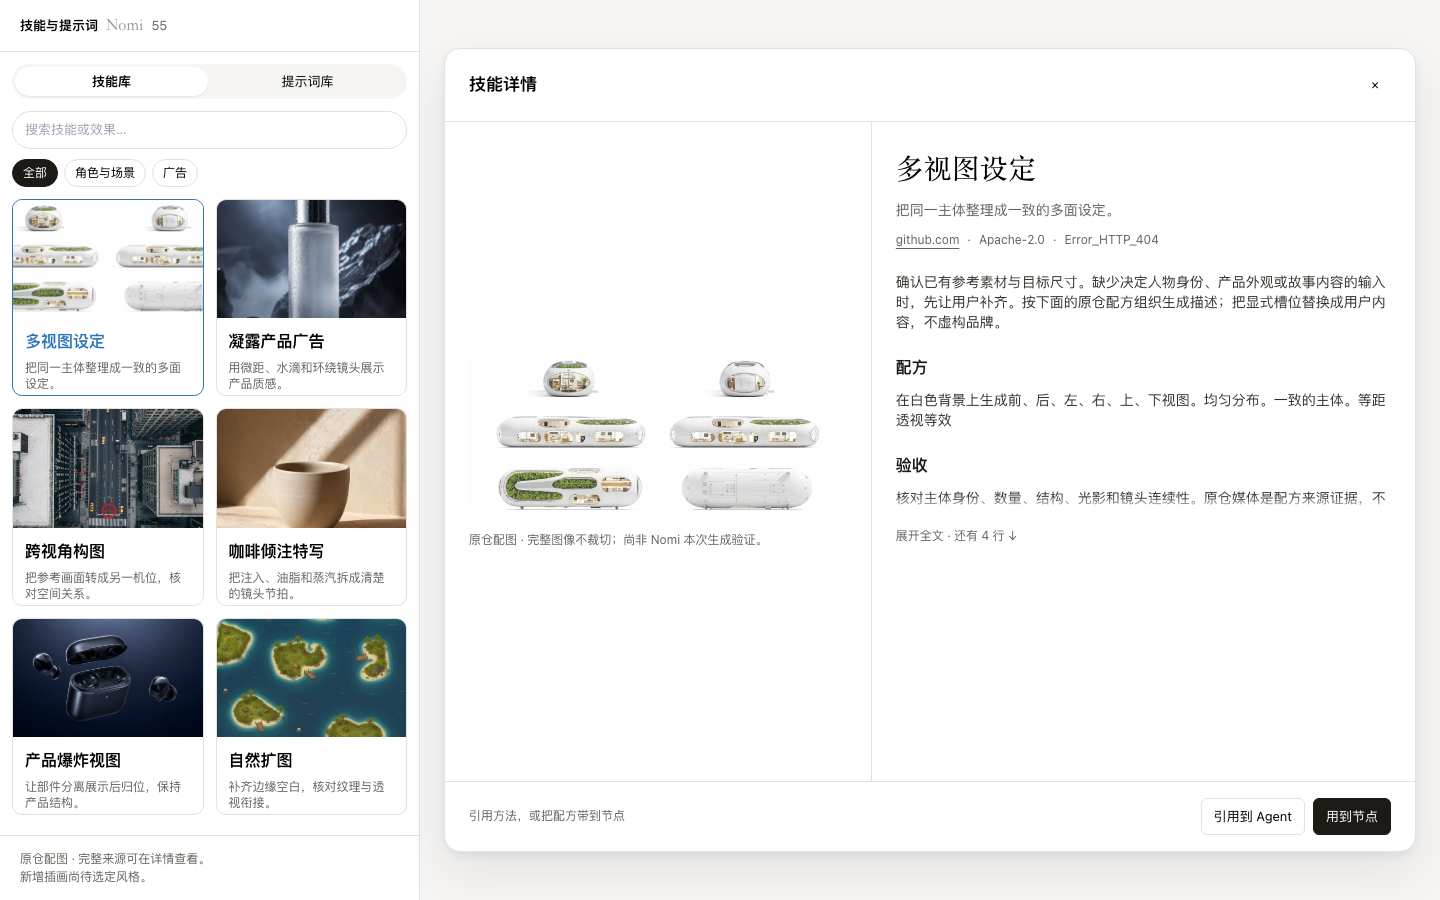
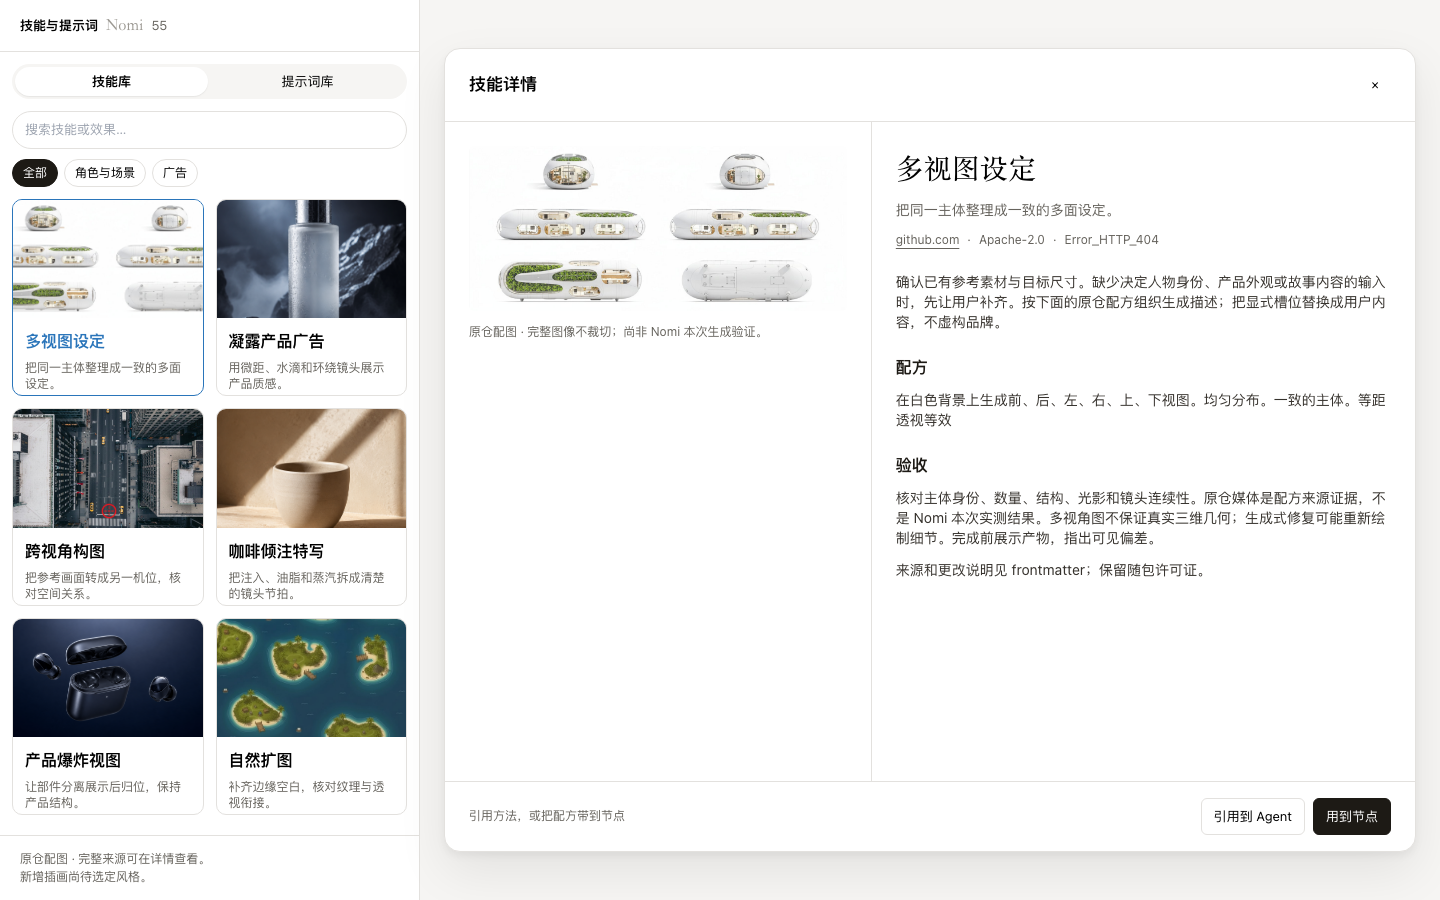
docs: show full skill detail body in v3 mockup

Changed region(s): [[0.3438, 0.1556, 0.5625, 0.3733], [0.3125, 0.4044, 0.5625, 0.6222], [0.625, 0.56, 0.9688, 0.6533]]

diff --git a/docs/design/mockups/2026-09-08-skill-library-cards/style.css b/docs/design/mockups/2026-09-08-skill-library-cards/style.css
@@ -1,3 +1,3 @@
 
-*{box-sizing:border-box}body{margin:0;font:13px/1.5 var(--nomi-font-sans);color:var(--nomi-ink);background:var(--nomi-ink-05)}button,input{font:inherit}button{cursor:pointer;color:inherit;background:var(--nomi-paper);border:1px solid var(--nomi-line);border-radius:var(--nomi-radius-sm);padding:8px 12px}button:hover{border-color:var(--nomi-accent);color:var(--nomi-accent)}button:focus-visible,input:focus-visible,[contenteditable]:focus-visible{outline:2px solid var(--nomi-accent);outline-offset:3px}button.active,.primary{background:var(--nomi-ink);color:var(--nomi-paper);border-color:var(--nomi-ink)}.quiet{border:0;background:none}.muted{color:var(--nomi-ink-60)}.workspace{display:flex;width:1440px;height:900px;max-width:100vw;overflow:hidden}.sidebar{width:420px;flex-shrink:0;background:var(--nomi-paper);border-right:1px solid var(--nomi-line);display:flex;flex-direction:column}.header{height:54px;display:flex;align-items:center;gap:8px;padding:0 20px;border-bottom:1px solid var(--nomi-line)}.wordmark{font:16px var(--nomi-font-display);color:var(--nomi-ink-40)}.tabs{display:flex;padding:3px;border-radius:999px;background:var(--nomi-ink-05);margin:12px;gap:3px}.tabs button{border:0;border-radius:999px;flex:1;background:transparent;padding:5px}.tabs button.selected{background:var(--nomi-paper);box-shadow:var(--nomi-shadow-sm);font-weight:600}.search{margin:0 12px 10px;padding:8px 12px;border:1px solid var(--nomi-line);border-radius:999px;background:var(--nomi-paper);width:calc(100% - 24px)}.groups{display:flex;gap:6px;padding:0 12px 12px;flex-wrap:wrap}.groups button{font-size:12px;padding:4px 10px;border-radius:999px}.grid{padding:0 12px 20px;display:grid;grid-template-columns:repeat(2,minmax(0,1fr));gap:12px;overflow:auto;align-content:start}.card{padding:0;text-align:left;overflow:hidden;border:1px solid var(--nomi-line);border-radius:var(--nomi-radius);background:var(--nomi-paper)}.card img{width:100%;aspect-ratio:16/10;object-fit:cover;display:block;background:var(--nomi-ink-05)}.card .copy{padding:12px}.card strong{font-size:16px;line-height:22px;display:block;overflow:hidden;white-space:nowrap;text-overflow:ellipsis}.card p{font-size:12px;line-height:16px;color:var(--nomi-ink-60);margin:8px 0 0;min-height:32px;overflow:hidden;display:-webkit-box;-webkit-line-clamp:2;-webkit-box-orient:vertical;letter-spacing:normal;hanging-punctuation:first last}.stage{flex:1;position:relative;background:var(--nomi-ink-05)}.node{position:absolute;left:180px;top:120px;width:400px;height:240px;background:var(--nomi-paper);border:1px solid var(--nomi-line);border-radius:var(--nomi-radius);overflow:hidden}.node img{width:100%;height:100%;object-fit:contain}.node-label{position:absolute;top:10px;left:12px;background:var(--nomi-paper);padding:2px 6px;border-radius:var(--nomi-radius-sm)}.caption{position:absolute;left:32px;bottom:24px;color:var(--nomi-ink-60);font-size:12px;max-width:800px}.detail{position:absolute;left:444px;top:48px;width:972px;height:804px;background:var(--nomi-paper);border:1px solid var(--nomi-line);border-radius:var(--nomi-radius-lg);box-shadow:var(--nomi-shadow-lg);z-index:10;display:flex;flex-direction:column}.detail[hidden]{display:none}.detail-head{padding:18px 24px;display:flex;align-items:center;border-bottom:1px solid var(--nomi-line)}.detail-head strong{font-size:17px}.detail-head button{margin-left:auto}.detail-body{display:grid;grid-template-columns:44% 56%;min-height:0;flex:1}.hero{margin:0;padding:24px;border-right:1px solid var(--nomi-line);display:flex;flex-direction:column;justify-content:center}.hero img{width:100%;max-height:440px;object-fit:contain;border-radius:var(--nomi-radius-sm)}figcaption{font-size:12px;color:var(--nomi-ink-60);margin-top:12px}.prompt-pane{padding:24px;overflow:auto}.eyebrow{font-size:11px;color:var(--nomi-ink-40);letter-spacing:.08em}a{color:var(--nomi-accent)}.detail-footer{padding:16px 24px;border-top:1px solid var(--nomi-line);display:flex;justify-content:flex-end;align-items:center;gap:8px}.detail-footer span{margin-right:auto;color:var(--nomi-ink-60);font-size:12px}.toast{position:fixed;right:32px;bottom:28px;padding:12px 18px;border-radius:var(--nomi-radius);background:var(--nomi-ink);color:var(--nomi-paper);box-shadow:var(--nomi-shadow-md);z-index:40}.toast[hidden]{display:none}.toast button{margin-left:12px}.composer{position:absolute;left:32px;top:374px;width:696px;padding:12px;background:var(--nomi-paper);border:1px solid var(--nomi-line);border-radius:var(--nomi-radius);box-shadow:var(--nomi-shadow-md)}.composer-top{display:flex;align-items:center;justify-content:space-between;padding:0 0 9px;border-bottom:1px solid var(--nomi-line-soft);font-size:12px;color:var(--nomi-ink-60)}.reference{display:flex;align-items:center;gap:6px}.reference img{width:24px;height:24px;object-fit:cover;border-radius:var(--nomi-radius-sm)}.editor{min-height:64px;max-height:110px;overflow:auto;padding:10px 0;outline:none;white-space:pre-wrap}.editor:empty:before{content:'描述这一帧的画面…';color:var(--nomi-ink-40)}mark{background:var(--nomi-ink-05);color:var(--nomi-ink-80);border-radius:999px;padding:4px 8px;font-size:12px;line-height:16px}.effects{display:flex;gap:8px;margin:0 0 10px;position:relative;align-items:center}.effects > button,.effects #favorites button{padding:4px 8px;font-size:12px;line-height:16px;border-radius:999px;background:var(--nomi-ink-05);border-color:transparent}.effects #favorites:not([hidden]){display:flex;gap:4px}.more{margin-left:auto}.menu{position:absolute;z-index:30;left:calc(100% + 12px);top:-120px;width:232px;background:var(--nomi-paper);border:1px solid var(--nomi-line);border-radius:var(--nomi-radius);box-shadow:var(--nomi-shadow-lg);max-height:470px;overflow:auto;padding:12px}.menu[hidden]{display:none}.menu section+section{border-top:1px solid var(--nomi-line-soft);padding-top:8px;margin-top:8px}.menu strong{font-size:11px;line-height:14px;font-weight:500;color:var(--nomi-ink-40);display:block;margin:0 8px 4px}.menu button{font-size:12px;line-height:16px;display:block;border:0;text-align:left;width:100%;border-radius:var(--nomi-radius-sm);padding:8px}.footer{display:flex;gap:8px;align-items:center;padding-top:4px}.footer button{border-radius:999px;font-size:12px;line-height:16px;padding:4px 8px}.footer .generate{margin-left:auto;background:var(--nomi-ink);color:var(--nomi-paper);width:32px;height:32px;padding:0;border-radius:50%}.state-label{position:absolute;left:32px;font-size:11px;letter-spacing:normal;color:var(--nomi-ink-60)}.filled{top:642px}.filled .editor{min-height:40px;padding-bottom:6px;font-size:12px}.filled .effects{margin-bottom:5px}.agent-chip{display:inline-flex;align-items:center;gap:6px;border:1px solid var(--nomi-line);padding:4px 8px;border-radius:var(--nomi-radius-sm)}.agent-chip img{width:24px;height:24px;object-fit:cover}.mode-note{padding:14px 20px;margin-top:auto;font-size:12px;border-top:1px solid var(--nomi-line);color:var(--nomi-ink-60)}
-.detail-intro{margin-bottom:24px}.detail-intro h1{margin:0 0 12px;font-weight:500}.detail-intro p{font-size:14px;line-height:20px;color:var(--nomi-ink-60);margin:0 0 12px}.detail-meta{display:flex;align-items:center;gap:8px;font-size:12px;line-height:16px;white-space:nowrap;color:var(--nomi-ink-60)}.detail-meta span:last-child{overflow:hidden;text-overflow:ellipsis}.detail-meta a{color:inherit;text-decoration:underline;text-underline-offset:4px}.skill-prose{letter-spacing:normal;hanging-punctuation:first last}.skill-prose p,.skill-prose ul,.skill-prose ol{line-height:var(--body-leading)}.skill-prose h2{line-height:var(--section-leading);margin-top:24px;margin-bottom:12px}.skill-prose p{margin-top:0;margin-bottom:12px}.skill-prose li{padding-left:4px}.expand-body{margin-top:12px;padding:4px 0;border:0;background:none;font-size:12px;line-height:16px;color:var(--nomi-ink-60)}.slot-chip{display:inline-block;font-family:var(--nomi-font-sans)}
+*{box-sizing:border-box}body{margin:0;font:13px/1.5 var(--nomi-font-sans);color:var(--nomi-ink);background:var(--nomi-ink-05)}button,input{font:inherit}button{cursor:pointer;color:inherit;background:var(--nomi-paper);border:1px solid var(--nomi-line);border-radius:var(--nomi-radius-sm);padding:8px 12px}button:hover{border-color:var(--nomi-accent);color:var(--nomi-accent)}button:focus-visible,input:focus-visible,[contenteditable]:focus-visible{outline:2px solid var(--nomi-accent);outline-offset:3px}button.active,.primary{background:var(--nomi-ink);color:var(--nomi-paper);border-color:var(--nomi-ink)}.quiet{border:0;background:none}.muted{color:var(--nomi-ink-60)}.workspace{display:flex;width:1440px;height:900px;max-width:100vw;overflow:hidden}.sidebar{width:420px;flex-shrink:0;background:var(--nomi-paper);border-right:1px solid var(--nomi-line);display:flex;flex-direction:column}.header{height:54px;display:flex;align-items:center;gap:8px;padding:0 20px;border-bottom:1px solid var(--nomi-line)}.wordmark{font:16px var(--nomi-font-display);color:var(--nomi-ink-40)}.tabs{display:flex;padding:3px;border-radius:999px;background:var(--nomi-ink-05);margin:12px;gap:3px}.tabs button{border:0;border-radius:999px;flex:1;background:transparent;padding:5px}.tabs button.selected{background:var(--nomi-paper);box-shadow:var(--nomi-shadow-sm);font-weight:600}.search{margin:0 12px 10px;padding:8px 12px;border:1px solid var(--nomi-line);border-radius:999px;background:var(--nomi-paper);width:calc(100% - 24px)}.groups{display:flex;gap:6px;padding:0 12px 12px;flex-wrap:wrap}.groups button{font-size:12px;padding:4px 10px;border-radius:999px}.grid{padding:0 12px 20px;display:grid;grid-template-columns:repeat(2,minmax(0,1fr));gap:12px;overflow:auto;align-content:start}.card{padding:0;text-align:left;overflow:hidden;border:1px solid var(--nomi-line);border-radius:var(--nomi-radius);background:var(--nomi-paper)}.card img{width:100%;aspect-ratio:16/10;object-fit:cover;display:block;background:var(--nomi-ink-05)}.card .copy{padding:12px}.card strong{font-size:16px;line-height:22px;display:block;overflow:hidden;white-space:nowrap;text-overflow:ellipsis}.card p{font-size:12px;line-height:16px;color:var(--nomi-ink-60);margin:8px 0 0;min-height:32px;overflow:hidden;display:-webkit-box;-webkit-line-clamp:2;-webkit-box-orient:vertical;letter-spacing:normal;hanging-punctuation:first last}.stage{flex:1;position:relative;background:var(--nomi-ink-05)}.node{position:absolute;left:180px;top:120px;width:400px;height:240px;background:var(--nomi-paper);border:1px solid var(--nomi-line);border-radius:var(--nomi-radius);overflow:hidden}.node img{width:100%;height:100%;object-fit:contain}.node-label{position:absolute;top:10px;left:12px;background:var(--nomi-paper);padding:2px 6px;border-radius:var(--nomi-radius-sm)}.caption{position:absolute;left:32px;bottom:24px;color:var(--nomi-ink-60);font-size:12px;max-width:800px}.detail{position:absolute;left:444px;top:48px;width:972px;height:804px;background:var(--nomi-paper);border:1px solid var(--nomi-line);border-radius:var(--nomi-radius-lg);box-shadow:var(--nomi-shadow-lg);z-index:10;display:flex;flex-direction:column}.detail[hidden]{display:none}.detail-head{padding:18px 24px;display:flex;align-items:center;border-bottom:1px solid var(--nomi-line)}.detail-head strong{font-size:17px}.detail-head button{margin-left:auto}.detail-body{display:grid;grid-template-columns:44% 56%;min-height:0;flex:1}.hero{margin:0;padding:24px;border-right:1px solid var(--nomi-line);display:flex;flex-direction:column;justify-content:flex-start}.hero img{width:100%;max-height:440px;object-fit:contain;border-radius:var(--nomi-radius-sm)}figcaption{font-size:12px;color:var(--nomi-ink-60);margin-top:12px}.prompt-pane{padding:24px;overflow:auto}.eyebrow{font-size:11px;color:var(--nomi-ink-40);letter-spacing:.08em}a{color:var(--nomi-accent)}.detail-footer{padding:16px 24px;border-top:1px solid var(--nomi-line);display:flex;justify-content:flex-end;align-items:center;gap:8px}.detail-footer span{margin-right:auto;color:var(--nomi-ink-60);font-size:12px}.toast{position:fixed;right:32px;bottom:28px;padding:12px 18px;border-radius:var(--nomi-radius);background:var(--nomi-ink);color:var(--nomi-paper);box-shadow:var(--nomi-shadow-md);z-index:40}.toast[hidden]{display:none}.toast button{margin-left:12px}.composer{position:absolute;left:32px;top:374px;width:696px;padding:12px;background:var(--nomi-paper);border:1px solid var(--nomi-line);border-radius:var(--nomi-radius);box-shadow:var(--nomi-shadow-md)}.composer-top{display:flex;align-items:center;justify-content:space-between;padding:0 0 9px;border-bottom:1px solid var(--nomi-line-soft);font-size:12px;color:var(--nomi-ink-60)}.reference{display:flex;align-items:center;gap:6px}.reference img{width:24px;height:24px;object-fit:cover;border-radius:var(--nomi-radius-sm)}.editor{min-height:64px;max-height:110px;overflow:auto;padding:10px 0;outline:none;white-space:pre-wrap}.editor:empty:before{content:'描述这一帧的画面…';color:var(--nomi-ink-40)}mark{background:var(--nomi-ink-05);color:var(--nomi-ink-80);border-radius:999px;padding:4px 8px;font-size:12px;line-height:16px}.effects{display:flex;gap:8px;margin:0 0 10px;position:relative;align-items:center}.effects > button,.effects #favorites button{padding:4px 8px;font-size:12px;line-height:16px;border-radius:999px;background:var(--nomi-ink-05);border-color:transparent}.effects #favorites:not([hidden]){display:flex;gap:4px}.more{margin-left:auto}.menu{position:absolute;z-index:30;left:calc(100% + 12px);top:-120px;width:232px;background:var(--nomi-paper);border:1px solid var(--nomi-line);border-radius:var(--nomi-radius);box-shadow:var(--nomi-shadow-lg);max-height:470px;overflow:auto;padding:12px}.menu[hidden]{display:none}.menu section+section{border-top:1px solid var(--nomi-line-soft);padding-top:8px;margin-top:8px}.menu strong{font-size:11px;line-height:14px;font-weight:500;color:var(--nomi-ink-40);display:block;margin:0 8px 4px}.menu button{font-size:12px;line-height:16px;display:block;border:0;text-align:left;width:100%;border-radius:var(--nomi-radius-sm);padding:8px}.footer{display:flex;gap:8px;align-items:center;padding-top:4px}.footer button{border-radius:999px;font-size:12px;line-height:16px;padding:4px 8px}.footer .generate{margin-left:auto;background:var(--nomi-ink);color:var(--nomi-paper);width:32px;height:32px;padding:0;border-radius:50%}.state-label{position:absolute;left:32px;font-size:11px;letter-spacing:normal;color:var(--nomi-ink-60)}.filled{top:642px}.filled .editor{min-height:40px;padding-bottom:6px;font-size:12px}.filled .effects{margin-bottom:5px}.agent-chip{display:inline-flex;align-items:center;gap:6px;border:1px solid var(--nomi-line);padding:4px 8px;border-radius:var(--nomi-radius-sm)}.agent-chip img{width:24px;height:24px;object-fit:cover}.mode-note{padding:14px 20px;margin-top:auto;font-size:12px;border-top:1px solid var(--nomi-line);color:var(--nomi-ink-60)}
+.detail-intro{margin-bottom:24px}.detail-intro h1{margin:0 0 12px;font-weight:500}.detail-intro p{font-size:14px;line-height:20px;color:var(--nomi-ink-60);margin:0 0 12px}.detail-meta{display:flex;align-items:center;gap:8px;font-size:12px;line-height:16px;white-space:nowrap;color:var(--nomi-ink-60)}.detail-meta span:last-child{overflow:hidden;text-overflow:ellipsis}.detail-meta a{color:inherit;text-decoration:underline;text-underline-offset:4px}.skill-prose{letter-spacing:normal;hanging-punctuation:first last}.skill-prose p,.skill-prose ul,.skill-prose ol{line-height:var(--body-leading)}.skill-prose h2{line-height:var(--section-leading);margin-top:24px;margin-bottom:12px}.skill-prose p{margin-top:0;margin-bottom:12px}.skill-prose li{padding-left:4px}.slot-chip{display:inline-block;font-family:var(--nomi-font-sans)}

diff --git a/docs/design/mockups/2026-09-08-skill-library-cards/capture-detail.tsx b/docs/design/mockups/2026-09-08-skill-library-cards/capture-detail.tsx
@@ -1,4 +1,4 @@
-import React, { useLayoutEffect, useRef, useState } from 'react'
+import React, { useLayoutEffect, useRef } from 'react'
 import { NomiMarkdown } from '/src/workbench/common/NomiMarkdown'
 import { nomiDesignTokens as tokens } from '/src/theme/nomiTheme'
 
@@ -21,9 +21,6 @@ function authorName(author: string) {
 export function Detail({ entry }: { entry: Entry }) {
   const body = bodyFor(entry)
   const ref = useRef<HTMLDivElement>(null)
-  const [expanded, setExpanded] = useState(false)
-  const [rows, setRows] = useState(0)
-  const fold = parseFloat(tokens.lineHeight.body) * 12
   useLayoutEffect(() => {
     const node = ref.current!
     // Decorate text leaves after the real renderer; never interpret Markdown here.
@@ -42,14 +39,7 @@ export function Detail({ entry }: { entry: Entry }) {
         return mark
       }))
     }
-    const measure = () => setRows(Math.max(0, Math.ceil((node.scrollHeight - fold) / parseFloat(tokens.lineHeight.body))))
-    const observer = new ResizeObserver(measure)
-    observer.observe(node)
-    void document.fonts.ready.then(measure)
-    measure()
-    return () => observer.disconnect()
-  }, [body, fold])
-  const folded = rows > 0 && !expanded
+  }, [body])
   return <>
     <header className="detail-intro">
       <h1 className="font-nomi-display text-display" id="detail-title">{entry.title['zh-CN']}</h1>
@@ -59,9 +49,8 @@ export function Detail({ entry }: { entry: Entry }) {
         <span title={entry.source.author}>{authorName(entry.source.author)}</span>
       </div>
     </header>
-    <div id="detail-prompt" data-folded={String(folded)} style={folded ? { maxHeight: fold, overflow: 'hidden', maskImage: `linear-gradient(to bottom, black calc(100% - ${tokens.spacing[4]}), transparent)` } : undefined}>
+    <div id="detail-prompt">
       <div ref={ref} className="skill-prose" style={{ '--body-leading': tokens.lineHeight.body, '--section-leading': tokens.lineHeight.title } as React.CSSProperties}><NomiMarkdown>{body}</NomiMarkdown></div>
     </div>
-    {rows > 0 && <button className="expand-body" aria-expanded={expanded} onClick={() => setExpanded(value => !value)}>{expanded ? '收起全文 ↑' : `展开全文 · 还有 ${rows} 行 ↓`}</button>}
   </>
 }

diff --git a/docs/design/mockups/2026-09-08-skill-library-cards/README.md b/docs/design/mockups/2026-09-08-skill-library-cards/README.md
@@ -1,4 +1,4 @@
-# 技能库与节点效果 · 两张待拍板样张
+# 技能库与节点效果 · 已裁决样张
 
 状态：仅 HTML 设计与交互样张，未实现产品 UI。
 
@@ -42,7 +42,8 @@ node docs/design/mockups/2026-09-08-skill-library-cards/verify.mjs
 - 标题 `text-display`（Tailwind 28px）+ `font-nomi-display`；正文 `body` 14/20，小节 `title` 16/22，meta/chip `caption` 12/16，分组 `micro` 11/14。`nomiDesignTokens` 没有 display 键，使用现役 Tailwind 映射；不是自造 TS token。
 - 间距 `1/2/3/4/6`（4/8/12/16/24）；`ink/ink-80/ink-60`，`rounded-full`/pill；中文 `letter-spacing:normal`、`hanging-punctuation:first last`（浏览器按支持程度启用）。封面固定 16:10，标题一行、简介两行省略。
 - `capture-real.tsx` 在详情捕获入口挂载 `capture-detail.tsx`，直接 import 生产 NomiMarkdown 文档档。去 frontmatter、首个同文 H1 与紧接的同文简介；来源显示可点击域名；槽位用与效果 chip 同尺寸和灰阶的胶囊。
-- 复用 v4 的渲染高度测量逻辑：12×body 行高折叠，用 scrollHeight 算剩余行，折尾渐隐避免半截字；展开/收起不影响固定底栏。
+- **v3 版式规则（用户已裁决，无需再拍板）：「空间够就全展示，折叠只在真装不下时用」。详情大窗正文全部渲染，不折叠、不渐隐、不设行数上限；超过可视高度时右栏自然滚动，沿用加载的设计系统全局细滚动条（`--nomi-ink` 混色）。左栏图片顶对齐，图下留 12px 接「原仓配图」说明；标题、简介、meta 行、分节和固定底栏不动。
+- v3 执行范围：仅本目录样张组件、生成器及产物、验收脚本和 `SL-LAST.md`；回滚本次提交即可恢复 v2。验收为 46 条正文渲染、长文滚动到底、无折叠与 Markdown 标记、1x/2x 截图逐字检查。根因是样张把紧凑面板的 12 行折叠套入详情大窗；技能与效果两类入口共用 Detail，统一移除折叠状态和测量逻辑。未改生产路径，不适用生产根因合同及依赖升级。
 - `build.mjs` 导出的 DOM 断言由 `verify.mjs` 在真实组件中执行：46 条技能/效果 + Markdown 结构夹具通过；旧 pre 路径红灯。正文文本禁标题井号、双星号、反引号；验证粗体、代码、列表、表格确实成为语义元素。
 - [详情 2x](library-cards@2x.png) · [节点 2x](node-effects@2x.png)。仅样张，未实现产品 UI。
 

diff --git a/SL-LAST.md b/SL-LAST.md
@@ -1,3 +1,5 @@
+v3 截图：docs/design/mockups/2026-09-08-skill-library-cards/library-cards{,@2x}.png
+v3 逐字检查：1x/2x 无折叠控件、正文至许可证末句完整、无 Markdown 标记；左图顶对齐，图下说明清楚；46 条正文及 80 段长文滚动到底验收通过。
 v2 截图：docs/design/mockups/2026-09-08-skill-library-cards/{library-cards,node-effects}{,@2x}.png
 断言结果：46 条正文 + Markdown 结构夹具通过；旧 pre 原文路径断言失败，展开/收起与引用/追加/撤销通过。
 逐字检查：详情无 Markdown 标记与重复标题简介，meta 单行清楚；卡片与 chip 字阶、间距一致，折尾渐隐。
